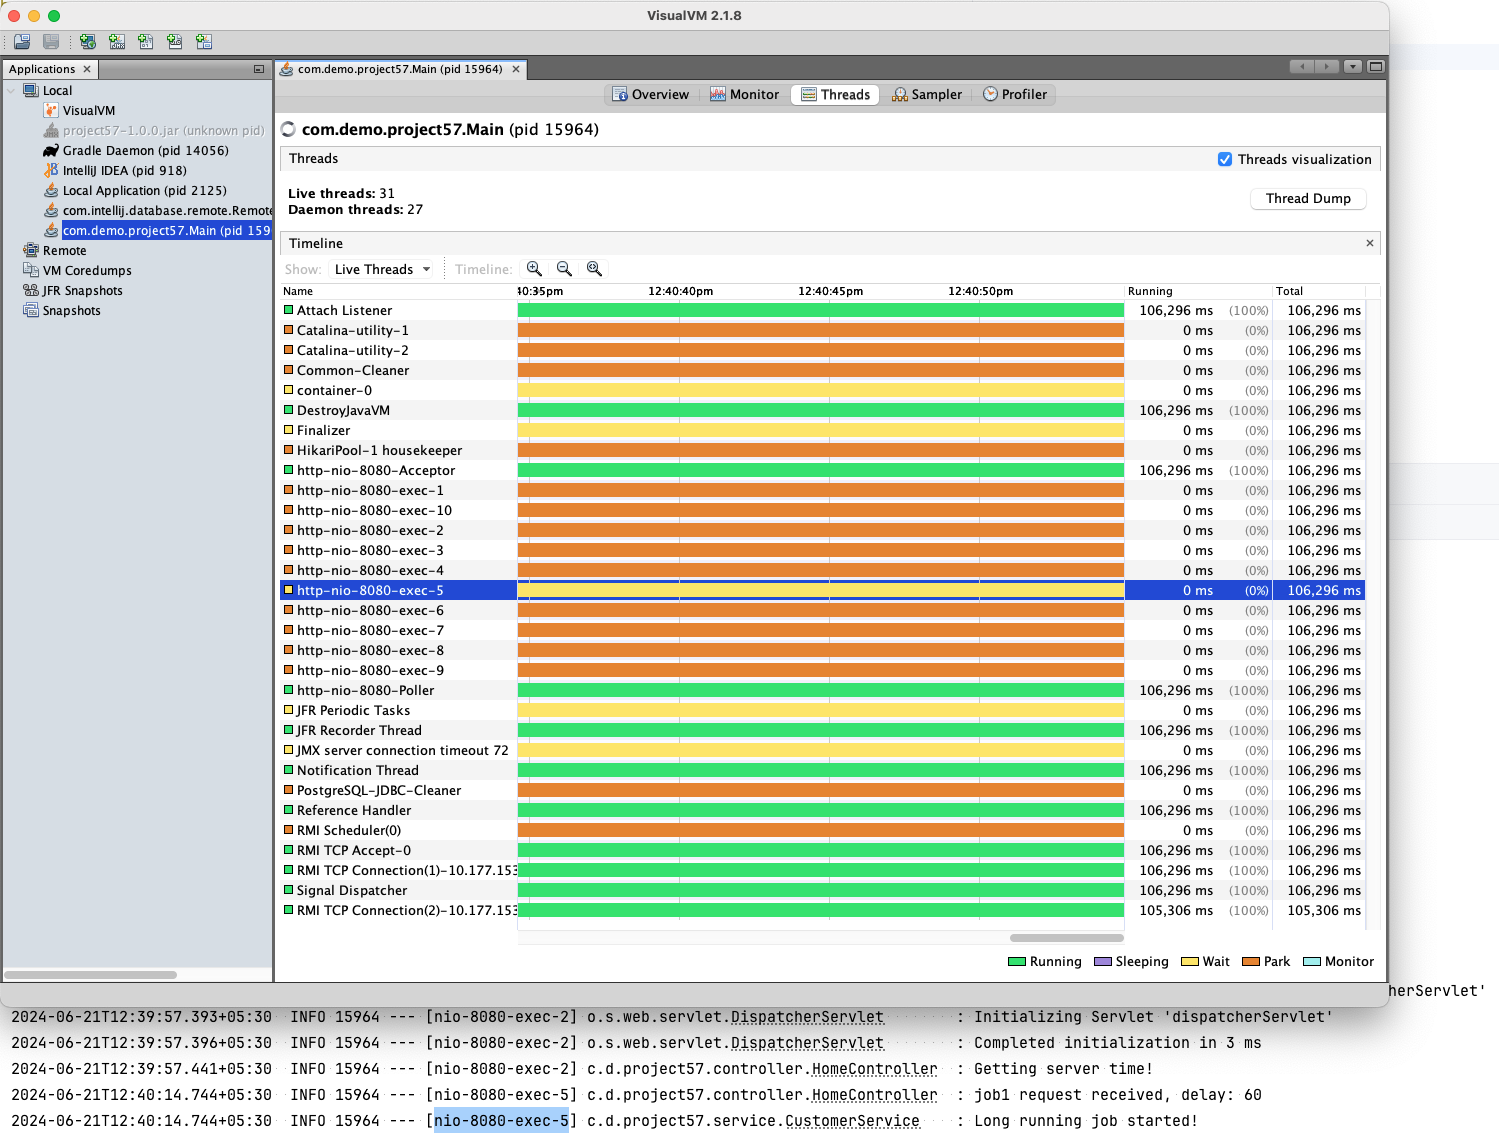
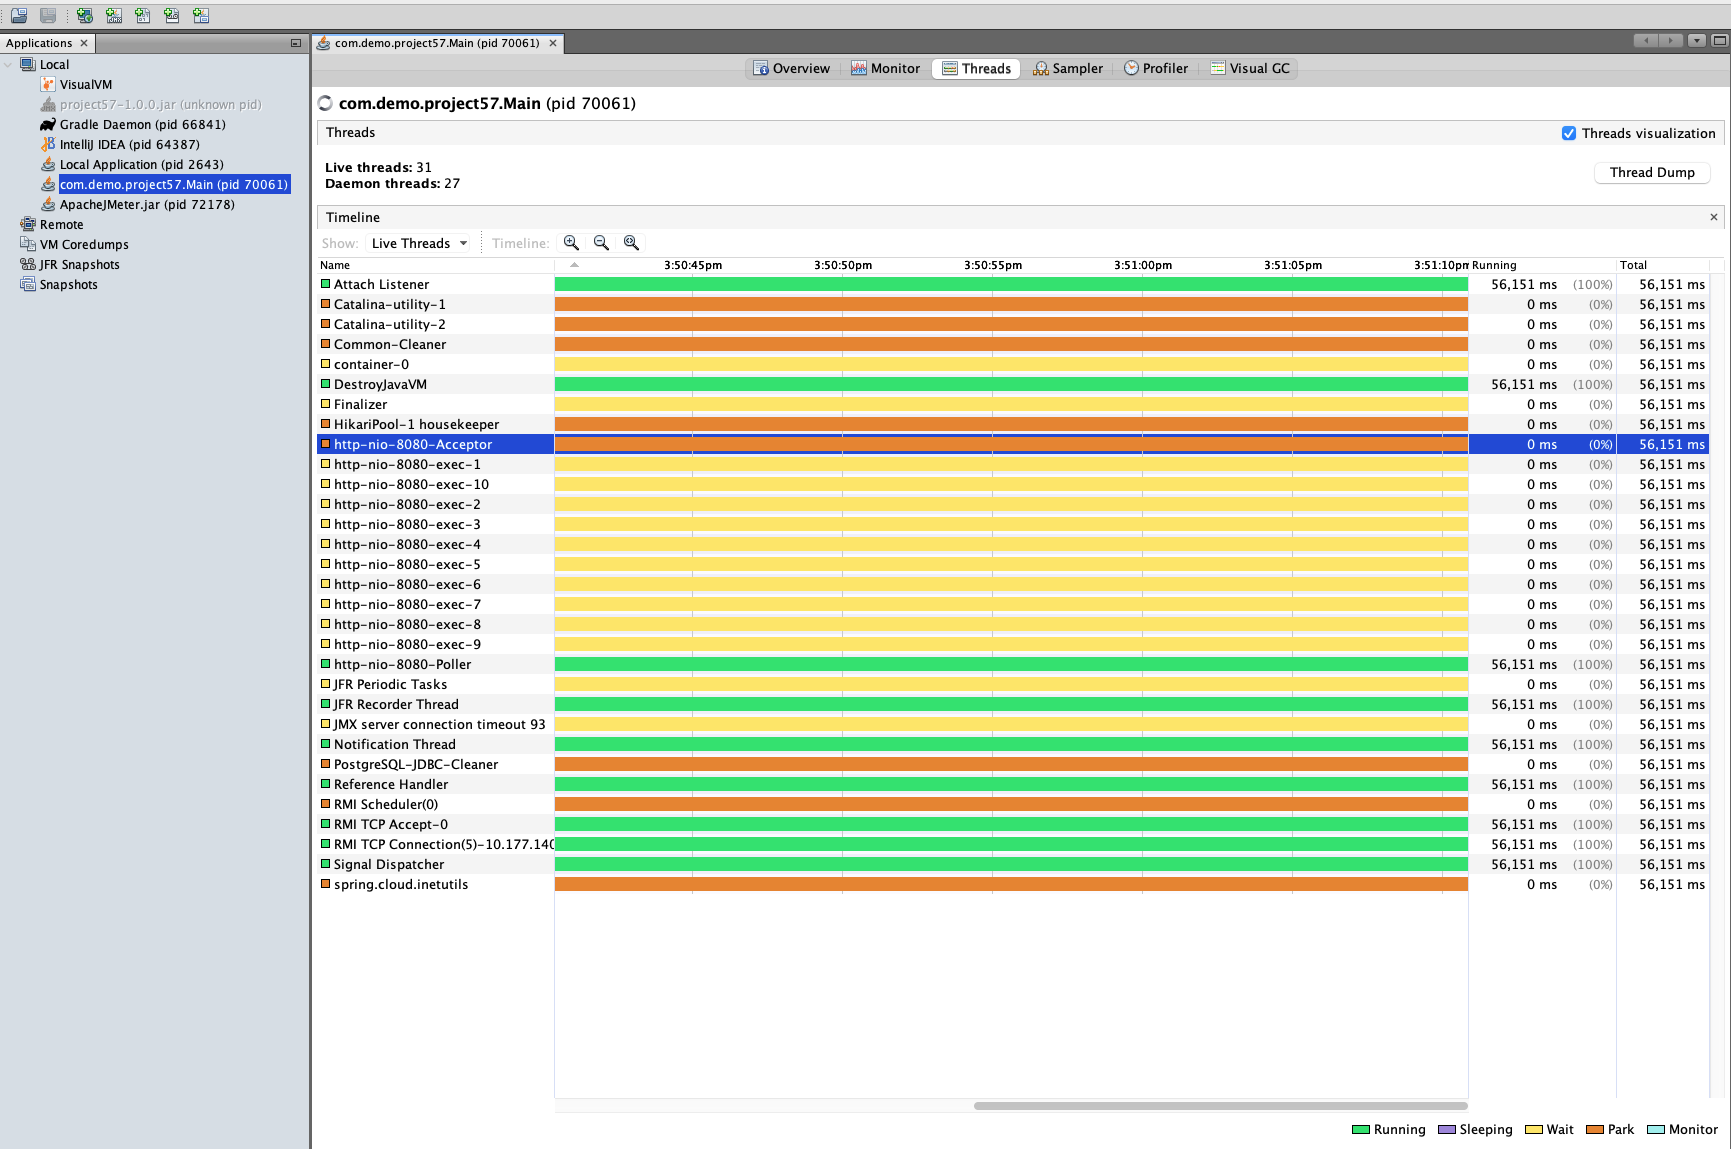
blog

diff --git a/content/post/spring-events/index.md b/content/post/spring-events/index.md
@@ -1,12 +1,12 @@
 ---
-title: 'Spring Events'
+title: 'Spring Events - Modulith'
 description: 'Spring Events'
 summary: 'Spring events provides event handling mechanism in spring'
 date: '2020-08-07'
 aliases: [/spring-events/]
 author: 'Arjun Surendra'
-categories: [Spring]
-tags: [spring]
+categories: [Spring, Spring-Modulith, Spring-Events]
+tags: [spring, spring-modulith]
 toc: true
 ---
 
@@ -16,15 +16,34 @@ Github: [https://github.com/gitorko/project73](https://github.com/gitorko/projec
 
 ## Spring Events
 
-Spring events lets you create and consume events within an application thus providing loose coupling. 
-Let's say you have 2 async functions that needs co-ordinate. When async1 is complete you need async2 to pick up the processed data and process it. You could use an external queue like rabbitmq, or you could write a producer consumer. Spring events lets you handle such a task easily. 
-Do note that this will be in-memory so if the server restarts all events will be lost.
+Spring events ensures loose coupling in an application, it allows inter-module interaction.
+Instead of injecting different `@Service` beans and invoking them in the directly you now publish an event and all other places that need to process it will implement a listener.
+
+Service can be developed without all the implementations. 
+Eg: Audit logging service is being developed and not ready, hence instead of being blocked on developing the core customer service class, just publish an event and when the service is ready add a listener to process that event. 
+
+Spring events are in-memory so if the server restarts all events published will be lost. 
+With Spring Modulith library you can now persist such event and process them after a restart.
+A module can access the content of any other module but can't access sub-packages of other modules.
+
+By default `@EventListener` run on the same thread as the caller, to run it asynchronously use `@Async`
+
+`@ApplicationModuleListener` by default comes with `@Transactional`, `@Async` & `@TransactionalEventListener` annotation enabled.
+
+To process the events on restart enable this flag.
+
+```yaml
+spring:
+  modulith:
+    republish-outstanding-events-on-restart: true
+```
 
 ### Code
 
+{{< ghcode "https://raw.githubusercontent.com/gitorko/project73/main/src/main/java/com/demo/project73/listener/ApplicationEventListener.java" >}}
+{{< ghcode "https://raw.githubusercontent.com/gitorko/project73/main/src/main/java/com/demo/project73/listener/AuditEventListener.java" >}}
 {{< ghcode "https://raw.githubusercontent.com/gitorko/project73/main/src/main/java/com/demo/project73/listener/CustomEventListener.java" >}}
-{{< ghcode "https://raw.githubusercontent.com/gitorko/project73/main/src/main/java/com/demo/project73/pojo/CustomEvent.java" >}}
-{{< ghcode "https://raw.githubusercontent.com/gitorko/project73/main/src/main/java/com/demo/project73/service/CustomAsync.java" >}}
+{{< ghcode "https://raw.githubusercontent.com/gitorko/project73/main/src/main/java/com/demo/project73/listener/ObjectEventListener.java" >}}
 
 ### Setup
 
@@ -33,3 +52,4 @@ Do note that this will be in-memory so if the server restarts all events will be
 ## References
 
 [https://spring.io/blog/2015/02/11/better-application-events-in-spring-framework-4-2](https://spring.io/blog/2015/02/11/better-application-events-in-spring-framework-4-2)
+[https://spring.io/projects/spring-modulith](https://spring.io/projects/spring-modulith)

diff --git a/content/post/distributed-system-essentials/index.md b/content/post/distributed-system-essentials/index.md
@@ -43,15 +43,41 @@ curl --location 'http://localhost:8080/api/time'
 
 Determine if CPU intensive or IO intensive task and delegate the execution to a thread pool so that the core tomcat threads are free to serve requests. The default tomcat threads are 250 and any blocking that happens will affect the whole service.
 
-There 2 types of protocol a tomcat server can be configured for
+There 2 types of protocol/connectors a tomcat server can be configured for
 
 1. **BIO (Blocking IO)** - The threads are not free till the response is sent back. (one thread per connection)
 2. **NIO (Non-Blocking IO)** - The threads are free to serve other requests while the incoming request is waiting for IO to complete. (more connections than threads)
+
+In the BIO configuration, there are 2 types of threads
+
+1. Acceptors — To accept incoming requests and to add in a queue. Acceptors discard any request when the queue if full, default is 100.
+2. Workers — To pick requests from the acceptor queue and process each request in its own thread stack
+
+Accept queue size
+
+```yaml
+server:
+  tomcat:
+    accept-count: 100
+```
+
+You will see the below error when the tomcat rejects the request due to queue being full
+
+```bash
+Response code:Non HTTP response code: org.apache.http.conn.HttpHostConnectException
+Response message:Non HTTP response message: Connect to localhost:8080 [localhost/127.0.0.1, localhost/0:0:0:0:0:0:0:1] failed: Operation timed out
+```
 
 Invoke this rest api that takes 60 secs to complete the job but delegates the job to another thread.
 
 ```bash
 curl --location 'http://localhost:8080/api/async-job/60'
+```
+
+The below error is seen when the client has closed the connection but server is still processing the thread and tries to return a response on the connection.
+
+```bash
+w.s.m.s.DefaultHandlerExceptionResolver : Resolved [org.springframework.web.context.request.async.AsyncRequestNotUsableException: ServletOutputStream failed to flush: ServletOutputStream failed to flush: java.io.IOException: Broken pipe]
 ```
 
 ![](img07.png)
@@ -174,7 +200,14 @@ java.util.concurrent.TimeoutException: TimeLimiter 'project57-tl' recorded a tim
 	at java.base/java.lang.Thread.run(Thread.java:1583) ~[na:na]
 ```
 
-Spring also provides `spring.mvc.async.request-timeout` that ensures REST APIs can timeout after the configurable amount of time.
+Spring also uses `spring.mvc.async.request-timeout` that ensures REST APIs can timeout after the configurable amount of time. Default is 30 seconds.
+
+```bash
+spring:
+  mvc:
+    async:
+      request-timeout: 30000
+```
 
 {{% notice info "Note" %}}
 Always assume the functions/api will take forever and may never complete, design system accordingly by fencing the methods.
